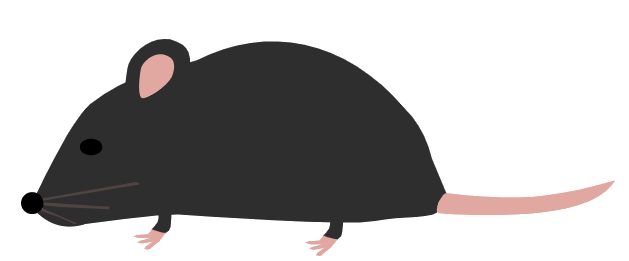
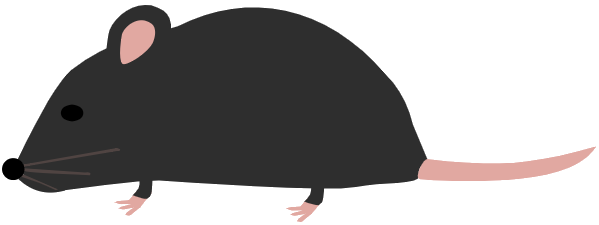
Added rats at correct speed

Changed region(s): [[0.0, 0.0, 0.9917, 0.9956], [0.1503, 0.6533, 0.2104, 0.7156]]

diff --git a/trash.js b/trash.js
@@ -1,10 +1,11 @@
-var trashArr = [];
+var groundObstaclesArr = [];
 var numCount = 0;
+var switchNum = 0;
 function getRandomInt(max) {
     return Math.floor(Math.random() * Math.floor(max));
   }
 
-class Trash {
+class GroundObstacles {
     constructor (game){
         this.canvas = game.canvas;
         this.context = game.context;
@@ -12,12 +13,14 @@ class Trash {
         let height = canvas.height;
         this.x = width;
         this.y = 340;
-        this.vx = 1;    
+        this.vx = 1; 
+        this.imageTitle = 'images/trashBag.png' 
+        
     }
 
     draw () {
         const image = new Image();
-        image.src = 'images/trashBag.png';
+        image.src = this.imageTitle;
 
         if (image.complete) {
             context.drawImage(image, this.x, this.y, image.width/7, image.height/6)
@@ -27,18 +30,50 @@ class Trash {
             });  
           }       
     }
-    // && getRandomInt(4) === 3
+    // 
     update (arr){
-        if(numCount % 800 === 0){   
+        if(numCount % 100 === 0 && getRandomInt(3) === 2){   
 
-          this.trash = new Trash(this);
-          trashArr.push(this.trash)
+          if(getRandomInt(2) === 1){
+          this.groundObstacles = new GroundObstacles(this);
+          groundObstaclesArr.push(this.groundObstacles)
+          this.groundObstacles.imageTitle = 'images/trashBag.png' 
+          switchNum = 1;
+          }
+
+          else {
+            this.groundObstacles = new GroundObstacles(this);
+            groundObstaclesArr.push(this.groundObstacles)
+            this.groundObstacles.imageTitle = 'images/rat1.png' 
+            this.groundObstacles.y = 370;
+           
+            switchNum = 1;
+            
+            switchNum = 1;
+          }
         }
         
-        for(let item of trashArr){
-          item.x -= this.vx;
-          item.draw();
+        for(let item of groundObstaclesArr){  
+          if(numCount % 50 === 0){
+              if(item.imageTitle === 'images/rat1.png'){
+                item.imageTitle = 'images/rat2.png'
+              }
+              else if (item.imageTitle === 'images/rat2.png'){
+                item.imageTitle = 'images/rat1.png'
+              }
           }
+
+          if(item.imageTitle === 'images/rat2.png' || item.imageTitle === 'images/rat1.png'){
+            item.x -= this.vx * 2;
+            item.draw();
+          }
+
+          else {
+            item.x -= this.vx;
+            item.draw();
+          }
+          
+        }
           numCount += 1;
       }
 }

diff --git a/game.js b/game.js
@@ -4,8 +4,7 @@ class Game {
         this.canvas = canvas;
         this.context = this.canvas.getContext('2d');
         this.player = new Player(this);
-        this.trash = new Trash(this);
-        this.rat = new Rat(this);
+        this.groundObstacles = new GroundObstacles(this);
         this.score = new Score(this);
         this.background = new Background(this);
         this.callbacks = {
@@ -22,7 +21,6 @@ class Game {
         this.background.draw()
         this.player.draw();
         this.score.draw();
-        this.rat.update(ratsArr);
     }
 
     start () {
@@ -38,10 +36,9 @@ class Game {
 
       update () {
         setInterval(() => {
-            this.player.crashWith(trashArr);
+            this.player.crashWith(groundObstaclesArr);
             this.draw();
-            
-            this.trash.update();
+            this.groundObstacles.update();
             this.background.ax -= 1;
             this.background.bx -= 1;
             this.background.cx -= 1;

diff --git a/index.html b/index.html
@@ -15,7 +15,6 @@
         <canvas width="1000" height="500"></canvas>
     </div>
   <script type="text/javascript" src="score.js"></script>
-  <script type="text/javascript" src="rats.js"></script>
   <script type="text/javascript" src="trash.js"></script>
   <script type="text/javascript" src="controls.js"></script>
   <script type="text/javascript" src="player.js"></script>

diff --git a/player.js b/player.js
@@ -61,7 +61,7 @@ class Player {
                 currentScore -= 10;
                 setTimeout(() => {
                      this.imageLink = 'images/sprite/Walk (1).png';
-                  }, 100);
+                  }, 200);
               }
           }
       }
